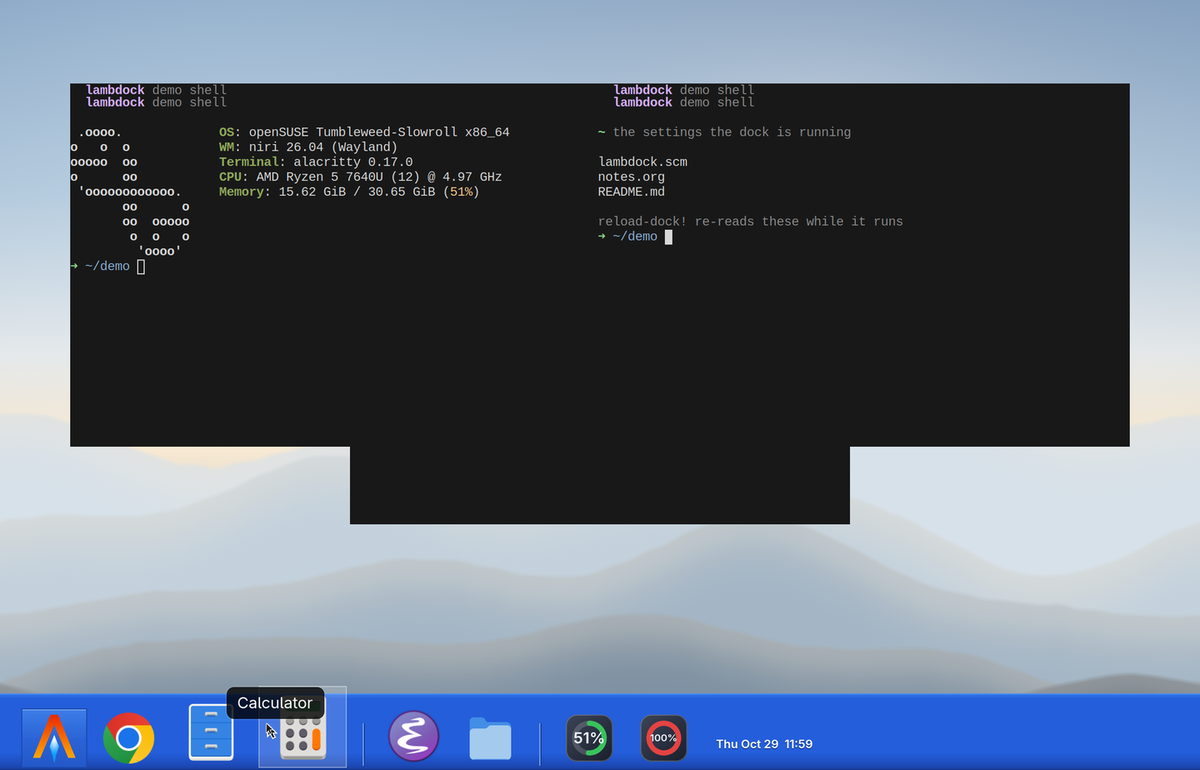
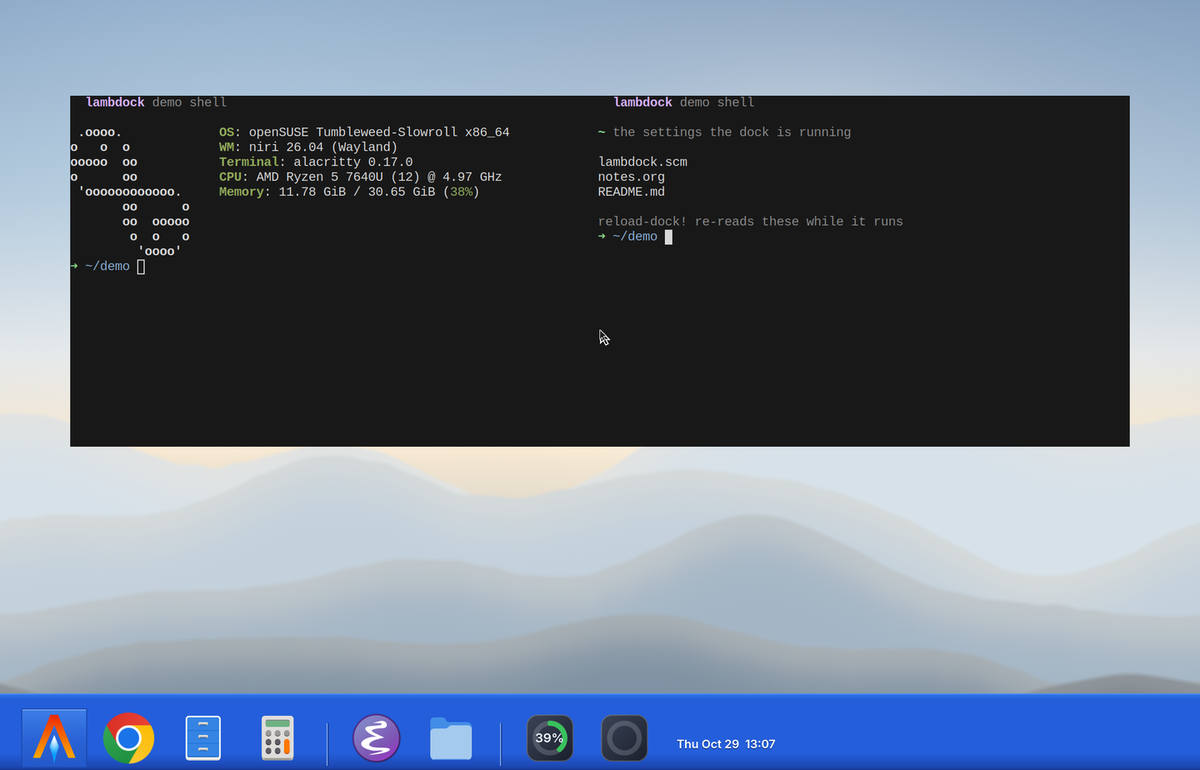
feat: Showcase the macOS Mavericks shelf in a cleaner storyboard
The two Mavericks materials are in the theme montage now, and they are shown the
way the stylesheet intends: the platinum slab with the icons mirrored onto the
glass in front of them.  That look is geometry, not colour, so the REPL helper
the scene teaches takes the shelf as a second argument and applies theme and
geometry in one expression -- reload-dock! only queues a redraw, so a geometry
change issued between two reloads paints the wrong pair.  Each Mavericks material
is held longer than a straight colour swap, and the light one no longer loses its
label in the same frame as its last swap.

The Preferences scene now shows the dialog on its own: the scene clears the stage
first, the popover row it clicks was re-measured (Close All was landing in the
separator below it, so the terminals never closed and then sat behind the
dialog), the recorder's niri config opens the dialog floating at the size the
scene uses, and it is placed low enough that the caption pill no longer sits on
its title bar.

The taskbar scene is captioned for what it shows.  Taskbar mode's running-window
label is measured away in this layout (the button is allocated less than its
content asks for, so the title ellipsizes to "..."), so the caption no longer
promises window titles as visible.

🤖 Generated with [ECA](https://eca.dev) (deepseek/deepseek-flash)

Changed region(s): [[0.2775, 0.561, 0.7092, 0.6857], [0.1542, 0.8727, 0.6783, 0.9974], [0.0617, 0.0935, 0.9558, 0.1247]]

diff --git a/tools/record-demo/controller.py b/tools/record-demo/controller.py
@@ -62,12 +62,39 @@ DOCK_ROW = 708
 
 # Popover rows hang above the dock at fixed offsets from the bottom, so the
 # last two rows do not move with the number of windows.
-POPOVER_CLOSE_ALL = 614
+POPOVER_CLOSE_ALL = 594
+
+# resources/css/macos-mavericks.css is *material*, not geometry: the 3D slab with
+# icons mirrored onto the glass in front of them only appears with the three dock
+# options the stylesheet documents (shelf margin -22, shelf front 18, reflection
+# 0.5).  Everything else in the montage wants the stock flat capsule back.
+#
+# Theme and geometry have to travel in *one* expression: reload-dock! only
+# queues a redraw, so a profile change issued between two reloads can land in
+# the same redraw as the next theme and paint the wrong pair.  That is why the
+# shelf geometry is typed as part of the swap helper instead of being set
+# between themes, and why the reset below is one expression as well.
+SHELF_OFF = "(set-dock-shelf-margin! 24) (set-dock-shelf-front! 0) (set-dock-reflection! 0.0)"
+# Typed into the dock's REPL: swap a theme, and take the shelf geometry with it
+# when a second argument is given.  Short on purpose -- it is on screen.
+SWAP_DEFINITION = (
+    "(define (swap! t . shelf) (set-dock-theme! t) "
+    "(let ((s (pair? shelf))) "
+    "(set-dock-shelf-margin! (if s -22 24)) "
+    "(set-dock-shelf-front! (if s 18 0)) "
+    "(set-dock-reflection! (if s 0.5 0))) (reload-dock!))"
+)
+# The shelf's capsule hangs lower than the flat one's, so the parked pointer
+# sits low enough to be inside both.
+MONTAGE_ROW = 736
+
 
 THEME_LABELS = {
     "vanilla": "Vanilla Glassmorphism",
     "macos-big-sur": "macOS Big Sur",
     "macos-ventura": "macOS Ventura",
+    "macos-mavericks": "macOS Mavericks",
+    "macos-mavericks-dark": "macOS Mavericks Dark",
     "unity": "Unity",
     "nature": "Nature",
     "snow-leopard-dark": "Snow Leopard Dark",
@@ -86,8 +113,15 @@ DARK_THEMES = [
     "unity",
     "snow-leopard-dark",
     "windows-11",
+    "macos-mavericks-dark",
 ]
-LIGHT_THEMES = ["vanilla-light", "snow-leopard", "solarized-light", "windows-xp"]
+LIGHT_THEMES = [
+    "vanilla-light",
+    "snow-leopard",
+    "solarized-light",
+    "windows-xp",
+    "macos-mavericks",
+]
 
 
 class Demo:
@@ -535,7 +569,7 @@ class Demo:
     def phase_intro(self) -> None:
         self.title("lambdock", "a dock you can reprogram while it runs")
         self.park()
-        time.sleep(2.6)
+        time.sleep(2.3)
         self.title_end()
 
     def phase_autohide(self) -> None:
@@ -606,11 +640,22 @@ class Demo:
 
     def phase_preferences(self) -> None:
         self.caption("Right-click the dock for its menu; every setting is live")
+        # Clear the stage: the dialog is the subject of this scene, and a
+        # floating terminal behind it reads as clutter.  Close the windows, then
+        # dismiss any popover they left latched open -- a popover grabs input and
+        # would swallow the right click below.
+        self.close_terminals()
+        time.sleep(0.5)
+        self.move(self.out_w / 2, self.out_h * 0.3)
+        self.click()
+        time.sleep(0.3)
+
         # Freeze the fish-eye animation so the separator stays at a known
         # coordinate while the menu is opened.
         self.dock_eval("(begin (set-dock-hover-animate! #f) (reload-dock!))")
         time.sleep(0.5)
         self.reveal_dock(self.X(ITEM_SEPARATOR))
+        self.move(self.X(ITEM_SEPARATOR), self.Y(MONTAGE_ROW))
 
         before = {int(window["id"]) for window in self.windows()}
         self.move(self.X(ITEM_SEPARATOR), self.Y(DOCK_ROW))
@@ -621,24 +666,27 @@ class Demo:
         self.click()
         time.sleep(1.6)
 
-        dialog = None
-        for _ in range(40):
+        dialog = self.wait_window(title="Lambdock Preferences", timeout=6.0)
+        if dialog is None:
             dialog = next(
                 (window for window in self.windows() if int(window["id"]) not in before),
                 None,
             )
-            if dialog:
-                break
-            time.sleep(0.1)
 
         if dialog is not None:
             window_id = int(dialog["id"])
-            # The dialog opens tiled and full width; floating it is what makes
-            # an exact size and position stick (and puts it above the terminals).
+            # The dialog is tiled unless it is floated, and a tiled window gives
+            # up its own size, so floating it first is what puts it above the
+            # dock at all.  Its own size request then lands late -- one
+            # placement is undone by it -- so the placement is applied twice
+            # with a gap, low enough that the caption pill above it does not sit
+            # on the title bar and short enough to leave the dock in view.
             self.niri_or_log("move-window-to-floating", "--id", str(window_id))
             self.niri_or_log("focus-window", "--id", str(window_id))
-            self.place(window_id, 250, 104, 620, 566)
-            time.sleep(2.6)
+            for _ in range(2):
+                self.place(window_id, 250, 122, 620, 548)
+                time.sleep(0.6)
+            time.sleep(1.8)
             self.close_window(window_id)
         time.sleep(0.5)
         self.dock_eval("(begin (set-dock-hover-animate! #t) (reload-dock!))")
@@ -655,7 +703,7 @@ class Demo:
         self.caption("A folder becomes a stack you can browse")
         self.glide(self.X(ITEM_STACK), self.Y(DOCK_ROW), 550)
         self.click()
-        time.sleep(1.2)
+        time.sleep(1.0)
         for x, y in ((600, 420), (660, 420), (600, 500)):
             self.glide(self.X(x), self.Y(y), 320)
             time.sleep(0.15)
@@ -680,20 +728,30 @@ class Demo:
         time.sleep(1.0)
         self.caption_end()
 
+    def montage_theme(self, theme: str) -> None:
+        """Swap one theme through the REPL, with the shelf for Mavericks."""
+        shelf = theme.startswith("macos-mavericks")
+        call = f"(swap! '{theme} 'shelf)" if shelf else f"(swap! '{theme})"
+        # The Mavericks slab slides in and mirrors the icons onto its glass, so
+        # it needs a beat longer on screen than a straight colour change.
+        self.repl(call, speed_ms=8, hold=1.5 if shelf else 0.4)
+        self.theme(theme)
+
     def phase_repl(self) -> None:
         self.caption("Reprogram the running dock over its socket REPL")
         kitty_id = self.launch_repl_window()
         self.open_repl_writer()
-        # Keep the pointer on the dock's separator: it holds the dock on screen
-        # without magnifying an icon that the montage is about to restyle.
-        self.move(self.X(ITEM_SEPARATOR), self.Y(DOCK_ROW))
+        # Park the pointer on the dock (that is what keeps it on screen) and
+        # freeze the fish-eye, so the icon under it is not magnified -- a
+        # magnified row outgrows its capsule, and the montage is about the
+        # capsule.
+        self.dock_eval("(begin (set-dock-hover-animate! #f) (reload-dock!))")
+        time.sleep(0.4)
+        self.reveal_dock(self.X(ITEM_SEPARATOR))
+        self.move(self.X(ITEM_SEPARATOR), self.Y(MONTAGE_ROW))
 
         self.repl("(use-modules (lambdock core))", speed_ms=10, hold=0.4)
-        self.repl(
-            "(define (swap! t) (set-dock-theme! t) (reload-dock!))",
-            speed_ms=10,
-            hold=0.5,
-        )
+        self.repl(SWAP_DEFINITION, speed_ms=6, hold=0.6)
         self.repl("(get-dock-icon-size)", speed_ms=14, hold=0.7)
         self.repl("(set-dock-icon-size! 64) (reload-dock!)", speed_ms=10, hold=0.9)
         self.repl("(set-dock-icon-size! 48) (reload-dock!)", speed_ms=10, hold=0.6)
@@ -701,15 +759,23 @@ class Demo:
 
         self.caption("Built-in themes, swapped live")
         for theme in DARK_THEMES:
-            self.repl(f"(swap! '{theme})", speed_ms=8, hold=0.35)
-            self.theme(theme)
-
+            self.montage_theme(theme)
         self.switch_wallpaper("mountains.png")
         for theme in LIGHT_THEMES:
-            self.repl(f"(swap! '{theme})", speed_ms=8, hold=0.35)
-            self.theme(theme)
+            self.montage_theme(theme)
+        # The montage stops on a theme, so let the last one stand before its
+        # label goes away: that frame is the only one showing the light
+        # Mavericks slab, and its mirrored icons are the whole point of it.
+        time.sleep(1.5)
         self.theme_end()
         self.caption_end()
+        # Leave the shelf and the frozen fish-eye behind.
+        self.dock_eval(f"(begin {SHELF_OFF} (reload-dock!))")
+        self.dock_eval("(begin (set-dock-hover-animate! #t) (reload-dock!))")
+        # Step off the capsule: a pointer resting on it leaves a tooltip behind
+        # for the next scene.
+        self.move(self.out_w / 2, self.out_h * 0.45)
+        time.sleep(0.3)
 
         if self.repl_fd is not None:
             os.close(self.repl_fd)
@@ -718,32 +784,35 @@ class Demo:
         time.sleep(0.7)
 
     def phase_taskbar(self) -> None:
-        self.caption("Or a taskbar, with window titles")
+        # The windows come first: the caption should cover the moment the bar
+        # changes, not the second and a half it takes to open two terminals.
         self.spawn_terminal("build", "fetch", 66, 118, 500, 330)
         self.spawn_terminal("logs", "files", 562, 118, 500, 330)
-        time.sleep(1.0)
-        self.reveal_dock()
+        time.sleep(0.6)
+        self.caption("Or a Windows XP-style taskbar")
+        self.reveal_dock(self.X(ITEM_SEPARATOR))
+        # Back off the bar before it can grow a tooltip under the pointer.
+        self.move(self.out_w / 2, self.out_h * 0.45)
 
         # The mode change re-anchors the layer surface, which a layout reload
         # only picks up on the next pass: nudge it twice so the bar really is
-        # full width, then show window titles on it.
+        # full width.
+        self.dock_eval(f"(begin {SHELF_OFF} (set-dock-theme! 'windows-xp) (reload-dock!))")
+        time.sleep(0.6)
         self.dock_eval("(begin (set-dock-mode! 'taskbar) (reload-dock!))")
         time.sleep(1.0)
         self.dock_eval("(begin (set-dock-mode! 'taskbar) (reload-dock!))")
-        time.sleep(0.8)
-        self.dock_eval("(begin (set-dock-show-window-titles! #t) (reload-dock!))")
-        time.sleep(1.8)
+        time.sleep(2.0)
         self.caption_end()
 
     def phase_outro(self) -> None:
         # Back to the default look *before* the card goes up, so the closing
         # frame is the same dock the README's hero image shows.
         self.close_terminals()
-        self.dock_eval("(begin (set-dock-show-window-titles! #f) (reload-dock!))")
         time.sleep(0.3)
         self.dock_eval("(begin (set-dock-mode! 'dock) (reload-dock!))")
         time.sleep(0.5)
-        self.dock_eval("(begin (set-dock-theme! 'vanilla) (reload-dock!))")
+        self.dock_eval(f"(begin {SHELF_OFF} (set-dock-theme! 'vanilla) (reload-dock!))")
         self.switch_wallpaper("galaxy.png")
         time.sleep(0.5)
         self.move(self.out_w / 2, self.out_h * 0.45)
